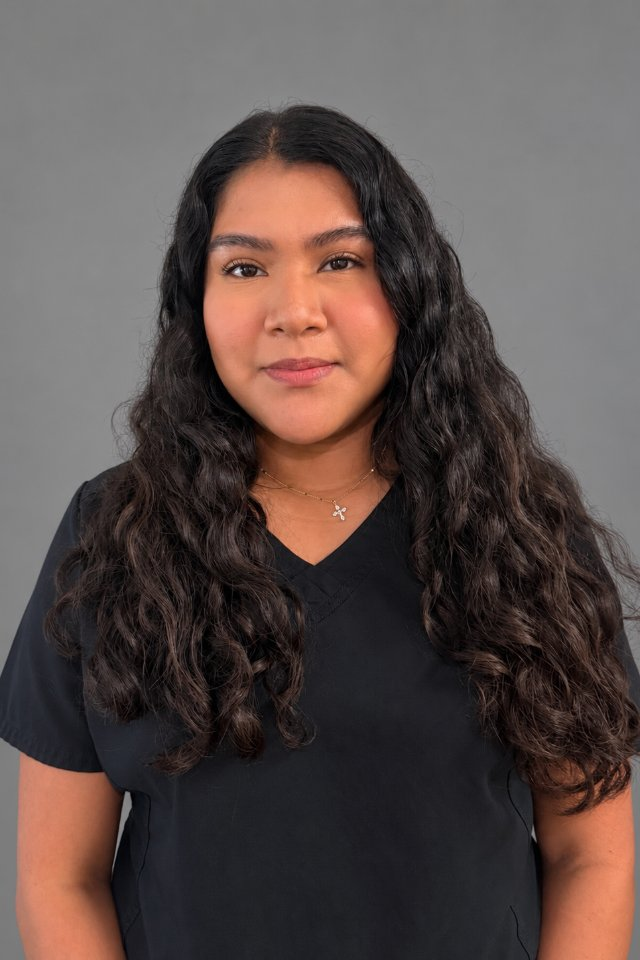
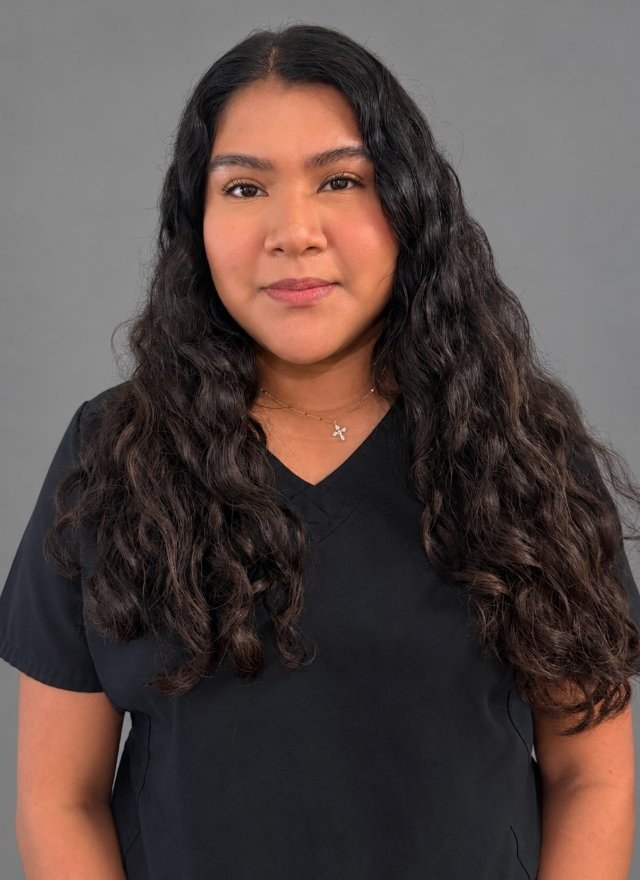
Team page: leadership row (Jessica, Yanelys, Teresa) under investigators; tighten Elizabeth's photo headroom
Claude-Session: https://claude.ai/code/session_01MpeCi1BHHSSApt44nLs2xW

diff --git a/meet-our-team/index.html b/meet-our-team/index.html
@@ -66,7 +66,7 @@
   <div class="person person--lead"><div class="person__photo"><picture><source srcset="../assets/img/dr-lederman-team.webp" type="image/webp"><img src="../assets/img/dr-lederman-team.jpg" alt="Dr. Samuel N. Lederman, MD, FACOG" loading="lazy" decoding="async"></picture></div><div class="person__body"><span class=eyebrow>Investigator</span><div class="person__name" style="font-size:24px;margin-top:8px;font-family:Times New Roman,serif">Dr. Samuel N. Lederman, MD, FACOG</div><div class="person__role">Medical Director &amp; Lead Investigator</div></div></div>
   <div style="margin-top:22px"><div class="person person--lead"><div class="person__photo"><picture><source srcset="../assets/img/cindy-mora-hd.webp" type="image/webp"><img src="../assets/img/cindy-mora-hd.jpg" alt="Cindy Mora, PA-C" loading="lazy" decoding="async"></picture></div><div class="person__body"><span class=eyebrow>Investigator</span><div class="person__name" style="font-size:24px;margin-top:8px;font-family:Times New Roman,serif">Cindy Mora, PA-C</div><div class="person__role">Sub-Investigator</div></div></div></div>
   <h2 class="h2" style="margin:56px 0 24px">Our staff</h2>
-  <div class="team-grid"><div class="person"><div class="person__photo"><picture><source srcset="../assets/img/team/jessica-ravelo.webp" type="image/webp"><img src="../assets/img/team/jessica-ravelo.jpg" alt="Jessica Ravelo" loading="lazy" decoding="async"></picture></div><div class="person__body"><div class="person__name">Jessica Ravelo</div><div class="person__role">CEO/President</div></div></div><div class="person"><div class="person__photo"><picture><source srcset="../assets/img/team/yanelys-perez.webp" type="image/webp"><img src="../assets/img/team/yanelys-perez.jpg" alt="Yanelys Perez" loading="lazy" decoding="async"></picture></div><div class="person__body"><div class="person__name">Yanelys Perez</div><div class="person__role">Site Director</div></div></div><div class="person"><div class="person__photo"><picture><source srcset="../assets/img/team/teresa-carmona.webp" type="image/webp"><img src="../assets/img/team/teresa-carmona.jpg" alt="Teresa Carmona" loading="lazy" decoding="async"></picture></div><div class="person__body"><div class="person__name">Teresa Carmona</div><div class="person__role">Office Manager</div></div></div><div class="person"><div class="person__photo"><picture><source srcset="../assets/img/team/axel-hernandez.webp" type="image/webp"><img src="../assets/img/team/axel-hernandez.jpg" alt="Axel Hernandez" loading="lazy" decoding="async"></picture></div><div class="person__body"><div class="person__name">Axel Hernandez</div><div class="person__role">Regulatory Manager</div></div></div><div class="person"><div class="person__photo"><picture><source srcset="../assets/img/team/florinda-francisco.webp" type="image/webp"><img src="../assets/img/team/florinda-francisco.jpg" alt="Florinda Francisco" loading="lazy" decoding="async"></picture></div><div class="person__body"><div class="person__name">Florinda Francisco</div><div class="person__role">Lead Research Coordinator</div></div></div><div class="person"><div class="person__photo"><picture><source srcset="../assets/img/team/elizabeth-rosales.webp" type="image/webp"><img src="../assets/img/team/elizabeth-rosales.jpg" alt="Elizabeth Rosales" loading="lazy" decoding="async"></picture></div><div class="person__body"><div class="person__name">Elizabeth Rosales</div><div class="person__role">Recruitment Specialist</div></div></div><div class="person"><div class="person__photo"><picture><source srcset="../assets/img/team/stephanie-feliz.webp" type="image/webp"><img src="../assets/img/team/stephanie-feliz.jpg" alt="Stephanie Feliz" loading="lazy" decoding="async"></picture></div><div class="person__body"><div class="person__name">Stephanie Feliz</div><div class="person__role">Research Pharmacist and CRC</div></div></div><div class="person"><div class="person__photo"><picture><source srcset="../assets/img/team/linda-portales.webp" type="image/webp"><img src="../assets/img/team/linda-portales.jpg" alt="Linda Portales" loading="lazy" decoding="async"></picture></div><div class="person__body"><div class="person__name">Linda Portales</div><div class="person__role">Research Coordinator</div></div></div><div class="person"><div class="person__photo"><picture><source srcset="../assets/img/team/elena-miguel-thomas.webp" type="image/webp"><img src="../assets/img/team/elena-miguel-thomas.jpg" alt="Elena Miguel-Thomas" loading="lazy" decoding="async"></picture></div><div class="person__body"><div class="person__name">Elena Miguel-Thomas</div><div class="person__role">Research Assistant</div></div></div><div class="person"><div class="person__photo"><picture><source srcset="../assets/img/team/jessica-francisco.webp" type="image/webp"><img src="../assets/img/team/jessica-francisco.jpg" alt="Jessica Francisco" loading="lazy" decoding="async"></picture></div><div class="person__body"><div class="person__name">Jessica Francisco</div><div class="person__role">Research Assistant</div></div></div><div class="person"><div class="person__photo"><picture><source srcset="../assets/img/team/matthew-deboer.webp" type="image/webp"><img src="../assets/img/team/matthew-deboer.jpg" alt="Matthew DeBoer" loading="lazy" decoding="async"></picture></div><div class="person__body"><div class="person__name">Matthew DeBoer</div><div class="person__role">EDC/Regulatory Assistant</div></div></div><div class="person"><div class="person__photo">EM</div><div class="person__body"><div class="person__name">Ernesto Mateo</div><div class="person__role">EDC/Regulatory Assistant</div></div></div></div>
+  <div class="team-grid team-grid--leaders"><div class="person"><div class="person__photo"><picture><source srcset="../assets/img/team/jessica-ravelo.webp" type="image/webp"><img src="../assets/img/team/jessica-ravelo.jpg" alt="Jessica Ravelo" loading="lazy" decoding="async"></picture></div><div class="person__body"><div class="person__name">Jessica Ravelo</div><div class="person__role">CEO/President</div></div></div><div class="person"><div class="person__photo"><picture><source srcset="../assets/img/team/yanelys-perez.webp" type="image/webp"><img src="../assets/img/team/yanelys-perez.jpg" alt="Yanelys Perez" loading="lazy" decoding="async"></picture></div><div class="person__body"><div class="person__name">Yanelys Perez</div><div class="person__role">Site Director</div></div></div><div class="person"><div class="person__photo"><picture><source srcset="../assets/img/team/teresa-carmona.webp" type="image/webp"><img src="../assets/img/team/teresa-carmona.jpg" alt="Teresa Carmona" loading="lazy" decoding="async"></picture></div><div class="person__body"><div class="person__name">Teresa Carmona</div><div class="person__role">Office Manager</div></div></div></div><div class="team-grid"><div class="person"><div class="person__photo"><picture><source srcset="../assets/img/team/axel-hernandez.webp" type="image/webp"><img src="../assets/img/team/axel-hernandez.jpg" alt="Axel Hernandez" loading="lazy" decoding="async"></picture></div><div class="person__body"><div class="person__name">Axel Hernandez</div><div class="person__role">Regulatory Manager</div></div></div><div class="person"><div class="person__photo"><picture><source srcset="../assets/img/team/florinda-francisco.webp" type="image/webp"><img src="../assets/img/team/florinda-francisco.jpg" alt="Florinda Francisco" loading="lazy" decoding="async"></picture></div><div class="person__body"><div class="person__name">Florinda Francisco</div><div class="person__role">Lead Research Coordinator</div></div></div><div class="person"><div class="person__photo"><picture><source srcset="../assets/img/team/elizabeth-rosales.webp?v=2" type="image/webp"><img src="../assets/img/team/elizabeth-rosales.jpg?v=2" alt="Elizabeth Rosales" loading="lazy" decoding="async"></picture></div><div class="person__body"><div class="person__name">Elizabeth Rosales</div><div class="person__role">Recruitment Specialist</div></div></div><div class="person"><div class="person__photo"><picture><source srcset="../assets/img/team/stephanie-feliz.webp" type="image/webp"><img src="../assets/img/team/stephanie-feliz.jpg" alt="Stephanie Feliz" loading="lazy" decoding="async"></picture></div><div class="person__body"><div class="person__name">Stephanie Feliz</div><div class="person__role">Research Pharmacist and CRC</div></div></div><div class="person"><div class="person__photo"><picture><source srcset="../assets/img/team/linda-portales.webp" type="image/webp"><img src="../assets/img/team/linda-portales.jpg" alt="Linda Portales" loading="lazy" decoding="async"></picture></div><div class="person__body"><div class="person__name">Linda Portales</div><div class="person__role">Research Coordinator</div></div></div><div class="person"><div class="person__photo"><picture><source srcset="../assets/img/team/elena-miguel-thomas.webp" type="image/webp"><img src="../assets/img/team/elena-miguel-thomas.jpg" alt="Elena Miguel-Thomas" loading="lazy" decoding="async"></picture></div><div class="person__body"><div class="person__name">Elena Miguel-Thomas</div><div class="person__role">Research Assistant</div></div></div><div class="person"><div class="person__photo"><picture><source srcset="../assets/img/team/jessica-francisco.webp" type="image/webp"><img src="../assets/img/team/jessica-francisco.jpg" alt="Jessica Francisco" loading="lazy" decoding="async"></picture></div><div class="person__body"><div class="person__name">Jessica Francisco</div><div class="person__role">Research Assistant</div></div></div><div class="person"><div class="person__photo"><picture><source srcset="../assets/img/team/matthew-deboer.webp" type="image/webp"><img src="../assets/img/team/matthew-deboer.jpg" alt="Matthew DeBoer" loading="lazy" decoding="async"></picture></div><div class="person__body"><div class="person__name">Matthew DeBoer</div><div class="person__role">EDC/Regulatory Assistant</div></div></div><div class="person"><div class="person__photo">EM</div><div class="person__body"><div class="person__name">Ernesto Mateo</div><div class="person__role">EDC/Regulatory Assistant</div></div></div></div>
 </div></section><section class="wrap" style="max-width:1100px;padding-top:72px;padding-bottom:80px">
   <div class="cta-box">
     <span class="eyebrow">Get started</span>

diff --git a/assets/css/site.css b/assets/css/site.css
@@ -163,6 +163,7 @@ a[data-hv="star"]:hover{border-color:#f7b500 !important}
 
 /* Team */
 .team-grid{display:grid;grid-template-columns:repeat(auto-fill,minmax(200px,1fr));gap:22px}
+.team-grid--leaders{grid-template-columns:repeat(3,minmax(0,240px));justify-content:center;margin-bottom:22px}
 .person{background:#fff;border:1px solid #dde8ea;border-radius:4px;overflow:hidden}
 .person__photo{aspect-ratio:4/5;background:#d9e5e7;display:flex;align-items:center;justify-content:center;font-family:'Times New Roman',Times,serif;font-size:44px;color:#3a5b96;font-weight:700}
 .person__photo picture{display:block;width:100%;height:100%}
@@ -277,7 +278,7 @@ a[data-hv="star"]:hover{border-color:#f7b500 !important}
 /* Layout refinements */
 @media (min-width:1000px){.site-footer__grid{grid-template-columns:1.4fr repeat(5,1fr)}}
 .chip{white-space:nowrap;font-size:11px;letter-spacing:.05em}
-@media (max-width:600px){.team-grid{grid-template-columns:repeat(2,minmax(0,1fr));gap:14px}.person__body{padding:12px 12px 14px}.person__name{font-size:15px}.person__role{font-size:13px}}
+@media (max-width:600px){.team-grid{grid-template-columns:repeat(2,minmax(0,1fr));gap:14px}.team-grid--leaders{display:flex;flex-wrap:wrap;justify-content:center;margin-bottom:14px}.team-grid--leaders .person{flex:0 0 calc(50% - 7px)}.person__body{padding:12px 12px 14px}.person__name{font-size:15px}.person__role{font-size:13px}}
 
 
 /* ===== Homepage refresh (Oct 2026) ===== */
